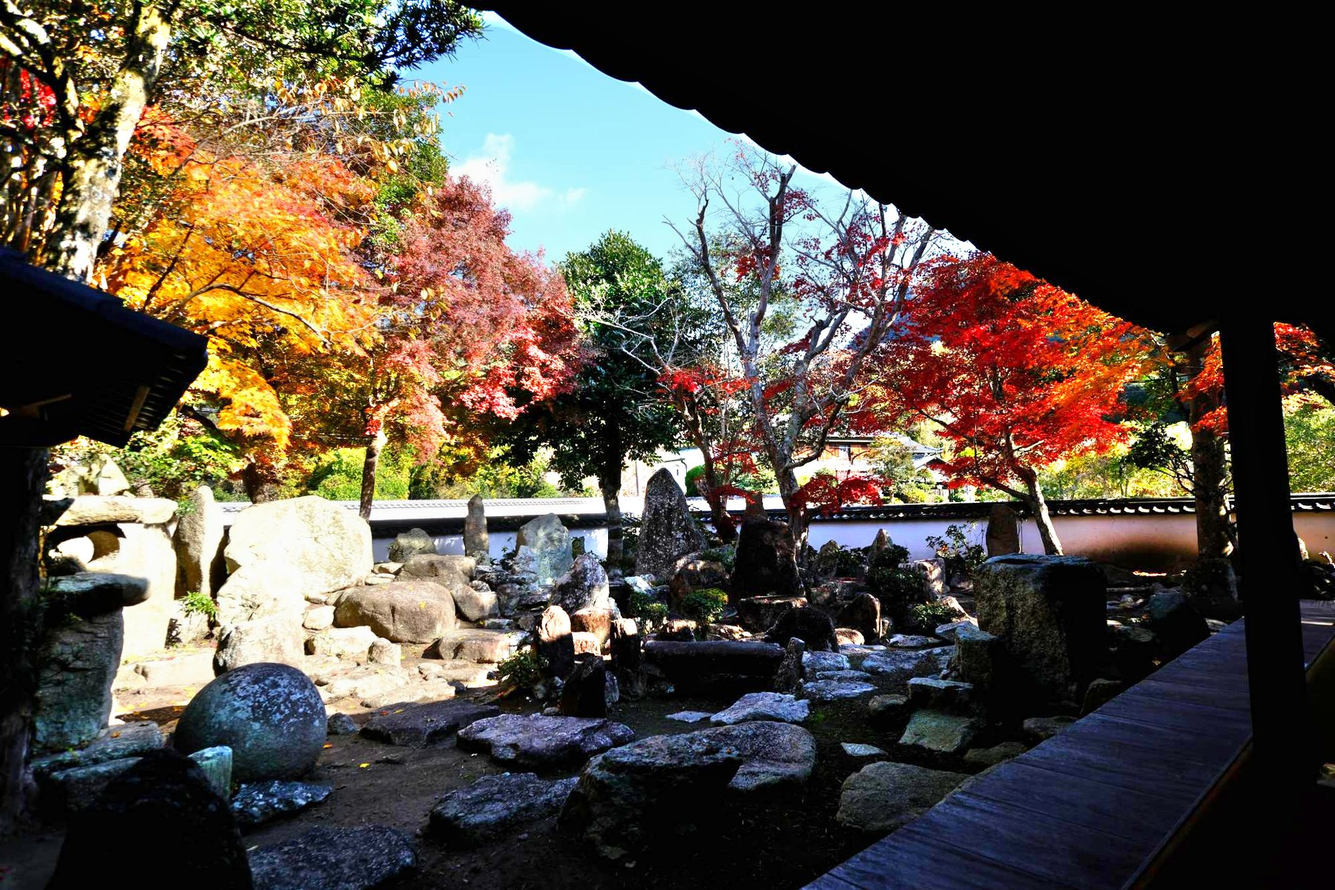
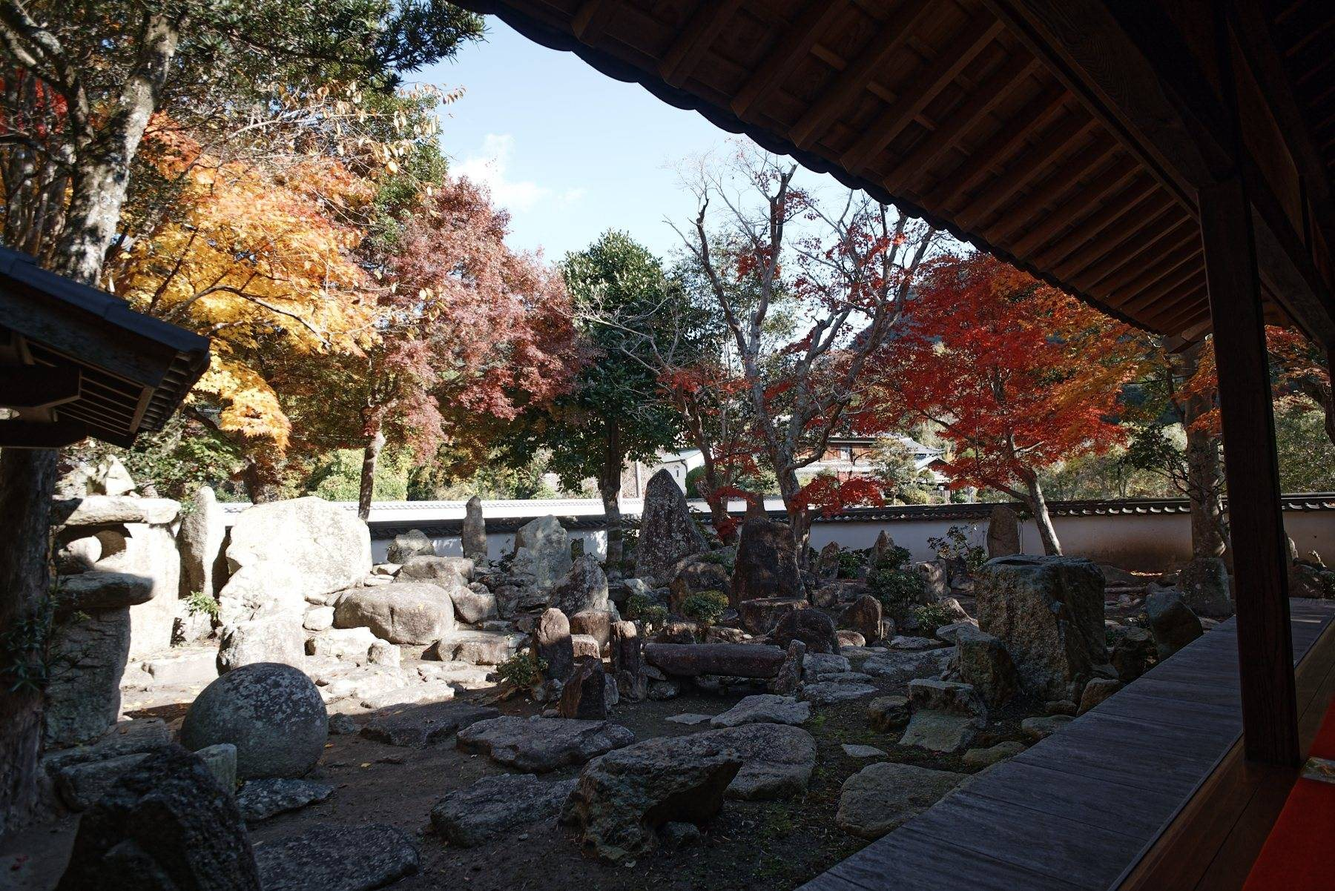
庭園全景をRAW現像版に差し替え
Claude-Session: https://claude.ai/code/session_0185uNZ5KLtNXPQ2uT1EDMto

diff --git a/index.html b/index.html
@@ -130,7 +130,7 @@
     <p class="garden-lead">蓬莱神仙思想を豪壮な石組みで表現した、書院の前庭です。面積は235平方メートル（約71坪）。大海のかなたに仙人の住む蓬莱の島々があり、不老不死の仙薬を蔵するという古来の思想を根本として、自然を写すのではなく、自然を乗り越えた神仙の世界を創り出しています。</p>
 
     <div class="photos">
-      <figure class="photo photo-wide"><img src="images/garden-view.jpg?v=2" alt="書院から望む安養院庭園の全景。石組の向こうに紅葉と土塀が広がる" width="1800" height="1200" loading="lazy"><figcaption>書院より望む庭園</figcaption></figure>
+      <figure class="photo photo-wide"><img src="images/garden-view.jpg?v=3" alt="書院から望む安養院庭園の全景。石組の向こうに紅葉と土塀が広がる" width="1800" height="1200" loading="lazy"><figcaption>書院より望む庭園</figcaption></figure>
       <figure class="photo photo-main"><img src="images/garden-autumn.jpg" alt="書院の縁側から眺める、紅葉に彩られた安養院庭園" width="1067" height="1600" loading="lazy"><figcaption>書院の縁より望む、紅葉の庭</figcaption></figure>
       <figure class="photo photo-top"><img src="images/chozubachi.jpg" alt="水面に紅葉を映す仙手石手水鉢" width="1067" height="1600" loading="lazy"><figcaption>仙手石手水鉢</figcaption></figure>
       <figure class="photo photo-top"><img src="images/shoin-flower.jpg" alt="書院の窓辺に生けられた花" width="1067" height="1600" loading="lazy"><figcaption>書院にて</figcaption></figure>
